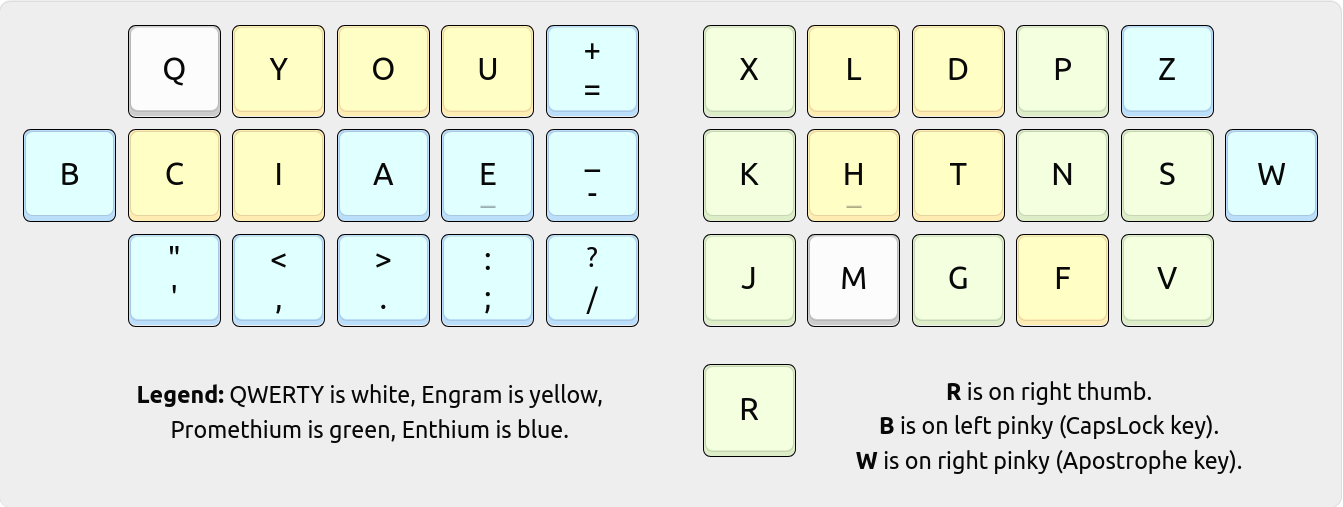
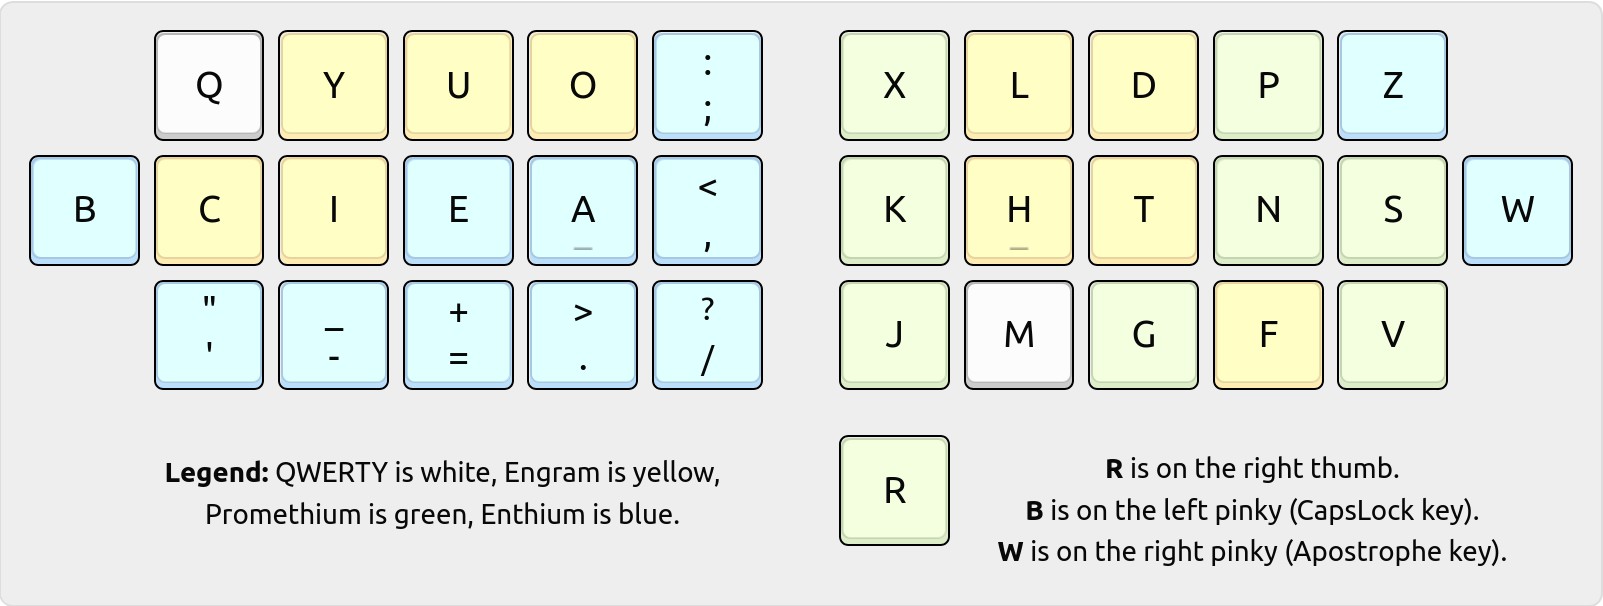
Enthium v15a candidate (YUO/CIEA/-=)

diff --git a/README.md b/README.md
@@ -1,146 +1,166 @@
-# Enthium v14 - Engrammer meets Promethium
+# Enthium v15 - Engrammer meets Promethium
 
-*Enthium* is a highly performant adaptation of the [Engrammer] and [Hands Down
-Promethium] keyboard layouts.  It restores familiarity with [Arno's Engram 2.0]
-layout (YOU on the left hand) and the [Dvorak] layout (HTNS on the right hand)
-while optimizing punctuation placement for programming in the spirit of Engrammer,
-featuring HJKL and `,;` for Vim, `-=` for zooming, and `./` for filesystem paths.
+*Enthium* is a highly performant thumb-letter keyboard layout adapted from
+[Promethium] in the spirit of [Engrammer].  It commemorates [Engram 2.0] and
+[Dvorak] with CIEA and HTNS on the home row, respectively, while optimizing
+punctuation and symbol placement for programming and application shortcuts,
+including HJKL for Vim navigation, `-=` for zooming, and `./` for file paths.
 
 ![Heatmap of this layout by Valorance, adapted from Oxeylyzer.](heatmap.png)
 
-      q y o u = x l d p z
-    b c i a e - k h t n s w
-      ' , . ; / j m g f v
+      q y u o ; x l d p z
+    b c i e a , k h t n s w
+      ' - = . / j m g f v
                 r
 
-[Hands Down Promethium]: https://reddit.com/r/KeyboardLayouts/comments/1g66ivi
-[Arno's Engram 2.0]:     https://github.com/binarybottle/engram-2021
-[Engrammer]:             https://github.com/sunaku/engrammer
-[Dvorak]:                https://www.dvzine.org
+[Promethium]: https://reddit.com/r/KeyboardLayouts/comments/1g66ivi
+[Engram 2.0]: https://github.com/binarybottle/engram-2021
+[Engrammer]:  https://github.com/sunaku/engrammer
+[Dvorak]:     https://www.dvzine.org
+
+<!-- vim-markdown-toc GFM -->
+
+* [Rationale](#rationale)
+    * [Typing comfort and flow](#typing-comfort-and-flow)
+    * [Shortcuts and punctuation](#shortcuts-and-punctuation)
+* [Performance](#performance)
+* [Arrangement](#arrangement)
+    * [Row-staggered keyboards](#row-staggered-keyboards)
+    * [Split/columnar keyboards](#splitcolumnar-keyboards)
+* [Installation](#installation)
+    * [Kanata setup](#kanata-setup)
+    * [Linux setup](#linux-setup)
+    * [macOS setup](#macos-setup)
+* [License](#license)
+
+<!-- vim-markdown-toc -->
 
 ## Rationale
 
+Enthium balances layout analyzer metrics (pinky and same-finger use, lateral
+stretches, redirects, rolls, etc.) with findings from my extensive real-world
+evaluation and feedback from early adopters in the Glove80 keyboard community.
+See [my blog post] for a closer look at Enthium's design process and evolution.
+
+### Typing comfort and flow
+
 * Pinky load is stratified by frequency: heavy letters B (1.44%) and W (1.77%)
-  are close to home position on the lateral pinky keys (CapsLock, Apostrophe);
-  medium letters `'` (0.47%) and V (1.09%) occupy the lower row pinky keys; and
-  light letters Q (0.10%) and Z (0.09%) sit on the upper row.  This distribution
-  helps reduce strain for short pinky fingers or those [weakened by convention].
+  rest near the home position on the lateral pinky keys (CapsLock, Apostrophe);
+  apostrophe `'` (0.47%) and letter V (1.09%) sit on the lower row pinky keys;
+  and light letters Q (0.10%) and Z (0.09%) rise to the upper row.  This helps
+  reduce strain for pinky fingers that are short or [weakened by convention].
+
+* Apostrophe sits on a separate finger from vowels to avoid same-finger bigrams
+  when typing English contractions such as ma'am, we'd, I'm, o'clock, you're.
+
+* Cross-hand symmetry (EA and TH roll inward, whereas OU and LD roll outward)
+  provides consistent directionality through the vowel and consonant clusters,
+  while E on the middle finger supports continuity through vowel-heavy words.
 
 * Vertical same-finger bigrams such as UE (0.08%), OA (0.05%), and NF (0.04%)
-  can be _raked down_, mitigating their impact on typing flow and performance.
+  can be _raked down_, which can help reduce interruptions to your typing flow.
   Similarly, horizontal ones can be _slid over_ based on dexterity and comfort.
+  For example, the word "queue" can be typed as a Q tap followed by raking UE
+  down twice with the middle finger, whereas the word "milk" can be typed as M
+  and I taps followed by sliding LK down and across with the index finger.
 
-* Apostrophe is on a different finger from vowels to avoid same-finger bigrams
-  when typing contractions in English: You'd, I'd, He'd, They'd, Quo's, Via's.
+* QU is an inward roll that flows seamlessly into common vowel sequences:
+  QUO keeps rolling inward, QUI/QUA roll downward, and QUE rakes downward.
 
-* B/E/W, I/A, K/J, Ctrl-P/N, T/F, and `,;` are directionally coherent for Vim.
+### Shortcuts and punctuation
 
-* Ctrl-B/I/U shortcuts for bold/italic/underline are all on the same hand.
+* Ctrl-B/I/U shortcuts for bold, italic, and underline are always within
+  comfortable reach for one-handed use from the left hand's home position.
 
-* `-` and `=` are clustered for intuitive zoom-in/out shortcuts with Ctrl.
+* `-` and `=` are clustered for intuitive zoom out/in shortcuts with Ctrl.
+  They are also positioned to the left of `>` for typing `->` and `=>`.
 
-* `.` and `/` are in-rollable for relative `./` and `../` filesystem paths.
+* `.` and `/` are clustered for relative file paths such as `./` and `../`.
 
-* `,.;/` are in the same relative sequence as QWERTY for easier adaptation,
-  especially for navigation and custom shortcuts that rely on shifted `<>`.
+* `,` is stacked above `.` on conventional row-staggered keyboards, allowing
+  `<>` to be typed by raking down while simultaneously holding the Shift key.
 
-* `',.` are on the same fingers and hand (only the row changes) as Dvorak.
+* `;` and `,` are stacked for cycling through f/F/t/T jump targets in Vim,
+  mirroring the relative ordering of L and H for horizontal cursor movement.
 
-* See [my blog post] for a closer look at Enthium's design and evolution.
+* B/E/W, I/A, K/J, Ctrl-P/N, and T/F physically align with Vim directions.
 
 [my blog post]:           https://sunaku.github.io/enthium-keyboard-layout.html
 [weakened by convention]: https://reddit.com/r/KeyboardLayouts/comments/1fy8nve/_/lqulnww/
 
 ## Performance
 
-The [keyboard layout community][rKL] commonly recommends [Pascal Getreuer's
-guide][PGr] and ranking tables as a starting point for layout exploration,
-and Enthium ranks among the top-performing layouts there as of 2025-12-28.
-More importantly, Enthium is well-balanced in terms of ergonomic concerns
-(same-finger avoidance, redirects, rolls, and pinky load) for sustained use.
+The [keyboard layouts community][rKL] often recommends [Pascal Getreuer's
+guide][PGr] and comparison tables as a starting point for choosing a layout,
+and Enthium stands among the top-performing layouts there as of 2026-08-16:
 
-Comparing with [conventional layout rankings][PGl]:
+| Metric                      | 📉 SFBs _(c)_ | 📉 LSBs _(d)_ | 📉 Scissors | 📈 Rolls _(e)_ | 📉 Redirects | 📉 Pinky use _(f)_ |
+| --------------------------- | ------------- | ------------- | ----------- | -------------- | ------------ | ------------------ |
+| **Enthium v15 score**       | 0.49%         | 0.18%         | 0.08%       | 45.26%         | 2.05%        | 14.44%             |
+| **Thumb-letter rank** _(a)_ | 2nd 🥈        | 2nd 🥈        | 1st 🥇      | 8th            | 5th          | 4th                |
+| **Conventional rank** _(b)_ | 1st 🥇        | 1st 🥇        | 1st 🥇      | 16th           | 8th          | 4th                |
 
-* 0.55% SFBs — second 🥈 place; only surpassed by Focal
-* 2.67% SFSs — first 🥇 place; beats the entire table!
-* 0.07% LSBs — first 🥇 place; beats the entire table!
-* 1.48% redirects — second 🥈 place; after HandsDownNeu
-* 0.16% scissors — sixth place; after Dvorak, Anymak:END, APTv3, MTGAP, Colemak-DH
-* 45.82% rolls — beats Semimak, Engram, HandsDownNeu, Anymak:END, Halmak, Dvorak
-* 2.91% pinky off — beats Canary, Gallium, APTv3, Semimak, MTGAP, Dvorak, Recurva, etc.
+* For each metric: 📉 indicates *lower is better*, whereas 📈 indicates *higher is better*.
+* _(a)_ Compared to other [thumb-letter layouts][PGt], excluding past versions of Enthium.
+* _(b)_ Compared to non-thumb [conventional layouts][PGl], such as QWERTY and Dvorak.
+* _(c)_ SFBs are *same-finger bigrams*, such as the sequence ED in the QWERTY layout.
+* _(d)_ LSBs are *lateral-stretch bigrams*, such as the sequence ET in the QWERTY layout.
+* _(e)_ Rolls sum the four roll in/out metrics listed under Trigrams in the table below.
+* _(f)_ Pinky use is [Pascal Getreuer's own metric][PGl], as published in his comparison tables.
 
-Comparing with [thumb-letter layout rankings][PGt]:
+These performance scores were [computed using Cyanophage's Layout Analyzer][cEM]:
 
-* 0.55% SFBs — second 🥈 place; only surpassed by Night
-* 2.67% SFSs — second 🥈 place; only surpassed by Night
-* 0.07% LSBs — second 🥈 place; only surpassed by Caster
-* 1.48% redirects — third 🥉 place; after Nordrassil, Vibranium
-* 0.16% scissors — fourth place; after RSTHD, Promethium, Maltron
-* 45.82% rolls — sixth place; beats Promethium, Nordrassil
-* 2.91% pinky off — third 🥉 place; after RSTHD, Nordrassil
+[![Enthium's performance per Cyanophage's Layout Analyzer](cyanophage.png)][cEM]
 
-Several same-finger bigrams (SFBs) in Enthium can be _raked down_ vertically
-across adjacent rows or _slid over_ horizontally, based on your dexterity and
-comfort.  This allows the same finger to actuate both keys in one continuous
-motion, thereby mitigating their impact on your typing flow and performance:
+| Category | Metric _(g)_           | [Enthium v15][cEM] | [Promethium][cPM] | [Engrammer][cEG] | [Dvorak][cDV] | [Colemak-DH][cCD] | [QWERTY][cQW] |
+| -------- | ---------------------- | ------------------ | ----------------- | ---------------- | ------------- | ----------------- | ------------- |
+| Summary  | 📉 Total Word Effort   | **723.4**          | 732.1             | 899.5            | 1185.5        | 1047.9            | 2070.6        |
+| Summary  | 📉 Effort              | 447.66             | **398.09**        | 457.41           | 769.69        | 534.99            | 1258.15       |
+| Bigrams  | 📉 Same finger bigrams | **0.49%**          | 0.58%             | 0.99%            | 1.87%         | 0.91%             | 4.38%         |
+| Bigrams  | 📉 Skip Bigrams (2u)   | **0.33%**          | 0.36%             | 0.39%            | 0.45%         | 0.49%             | 1.43%         |
+| Bigrams  | 📉 Skip Bigrams (SFS)  | **2.73%**          | 3.05%             | 3.47%            | 3.48%         | 4.24%             | 5.45%         |
+| Bigrams  | 📉 Lat stretch bigrams | **0.18%**          | 0.24%             | 0.41%            | 0.80%         | 1.27%             | 4.55%         |
+| Bigrams  | 📉 Scissors            | **0.08%**          | 0.11%             | 0.36%            | **0.08%**     | 0.15%             | 1.46%         |
+| Trigrams | 📈 Alternation         | 37.98%             | 36.98%            | 35.62%           | **39.08%**    | 25.43%            | 21.38%        |
+| Trigrams | 📉 Alternation (SFS)   | **4.57%**          | 5.27%             | 5.93%            | 5.85%         | 5.47%             | 5.42%         |
+| Trigrams | 📈 Rolls (sum)         | 45.26%             | 45.74%            | 44.28%           | 39.20%        | **49.20%**        | 40.76%        |
+| Trigrams | 📈 Roll in             | 0.90%              | 1.72%             | **1.82%**        | 0.28%         | 1.50%             | 1.32%         |
+| Trigrams | 📈 Roll out            | 0.37%              | 0.29%             | 0.29%            | 0.27%         | 0.98%             | **1.48%**     |
+| Trigrams | 📈 Bigram roll in      | 27.67%             | **29.17%**        | 28.14%           | 23.51%        | 25.18%            | 20.38%        |
+| Trigrams | 📈 Bigram roll out     | 16.32%             | 14.56%            | 14.03%           | 15.14%        | **21.54%**        | 17.58%        |
+| Trigrams | 📉 Redirects           | 2.05%              | **1.53%**         | 2.26%            | 1.55%         | 5.33%             | 6.22%         |
+| Trigrams | 📉 Weak redirects      | 0.92%              | 0.87%             | 0.74%            | 0.64%         | 1.09%             | **0.44%**     |
+| Trigrams | 📉 Other               | **9.23%**          | 9.61%             | 11.17%           | 13.68%        | 13.49%            | 25.78%        |
+| Getreuer | 📉 Pinky use           | 14.44%             | 14.41%            | 16.86%           | 19.32%        | 16.58%            | **11.04%**    |
 
-> 0.55% SFBs - 0.26% rakeable - 0.07% slideable = **0.22% _effective_ SFBs**
+* _(g)_ **Bold** indicates the best value within each row, among the layouts being compared here in this table.
 
-| SFB  | Cost  | Mitigation |
-| ---  | ----  | ---------- |
-| `ue` | 0.08% | rake down  |
-| `oa` | 0.05% | rake down  |
-| `nf` | 0.04% | rake down  |
-| `ws` | 0.03% | slide in   |
-| `yi` | 0.03% | rake down  |
-| `e-` | 0.02% | slide out  |
-| `sw` | 0.02% | slide out  |
-| `a.` | 0.02% | rake down  |
-| `lk` | 0.02% | rake down  |
-| `e/` | 0.01% | rake down  |
-| `hm` | 0.01% | rake down  |
+[rKL]: https://www.reddit.com/r/KeyboardLayouts/
+[PGr]: https://getreuer.info/posts/keyboards/alt-layouts/
+[PGl]: https://getreuer.info/posts/keyboards/alt-layouts/#table
+[PGt]: https://getreuer.info/posts/keyboards/alt-layouts/#layouts-with-thumb-keys
 
-These results were [computed with Cyanophage's Layout Analyzer][cNM] as follows.
-
-[![Statistics for Enthium from Cyanophage's Layout Analyzer](cyanophage.png)][cNM]
-
-[cNM]: https://cyanophage.github.io/playground.html?layout=qyou%3Dxldpz%5Cciae-khtnsw%27%2C.%3B%2Fjmgfv*rb&mode=ergo&lan=english&thumb=r
+[cEM]: https://cyanophage.github.io/playground.html?layout=qyuo%3Bxldpz%5Cciea%2Ckhtnsw%27-%3D.%2Fjmgfv*rb&mode=ergo&lan=english&thumb=r
 [cPM]: https://cyanophage.github.io/playground.html?layout=fpdlx%3Buoybzsnthk%2Caeicqvwgmj-.%27%3D%2F%5Cr&mode=ergo&lan=english&thumb=l
-[cNG]: https://cyanophage.github.io/playground.html?layout=byou%27%3Bldwvzciea%2C.htsnqgxjk-%2Frmfp%5C%5E&mode=ergo&lan=english&thumb=l
+[cEG]: https://cyanophage.github.io/playground.html?layout=byou%27%3Bldwvzciea%2C.htsnqgxjk-%2Frmfp%5C%5E&mode=ergo&lan=english&thumb=l
 [cDV]: https://cyanophage.github.io/playground.html?layout=%27%2C.pyfgcrl%2Faoeuidhtns-%3Bqjkxbmwvz%5C%5E&mode=ergo&lan=english&thumb=l
 [cCD]: https://cyanophage.github.io/playground.html?layout=qwfpbjluy%3B-arstgmneio%27zxcdvkh%2C.%2F%5C%5E&mode=ergo&lan=english&thumb=l
 [cQW]: https://cyanophage.github.io/playground.html?layout=qwertyuiop-asdfghjkl%3B%27zxcvbnm%2C.%2F%5C%5E&mode=ergo&lan=english&thumb=l
 
-| Category | Statistic              | [Enthium][cNM] | [Promethium][cPM] | [Engrammer][cNG] | [Dvorak][cDV] | [Colemak-DH][cCD] | [QWERTY][cQW] |
-| -------- | ---------------------- | -------------- | ----------------- | ---------------- | ------------- | ----------------- | ------------- |
-| Summary  | Total Word Effort 📉   | 724.5          | 732.1             | 899.5            | 1185.5        | 1047.9            | 2070.6        |
-| Summary  | Effort 📉              | 415.46         | 398.09            | 457.41           | 769.69        | 534.99            | 1258.15       |
-| Bigrams  | Same Finger Bigrams 📉 | 0.55%          | 0.58%             | 0.99%            | 1.87%         | 0.91%             | 4.38%         |
-| Bigrams  | Skip Bigrams (2u) 📉   | 0.33%          | 0.36%             | 0.39%            | 0.45%         | 0.49%             | 1.43%         |
-| Bigrams  | Skip Bigrams (SFS) 📉  | 2.67%          | 3.05%             | 3.47%            | 3.48%         | 4.24%             | 5.45%         |
-| Bigrams  | Lat Stretch Bigrams 📉 | 0.07%          | 0.24%             | 0.41%            | 0.80%         | 1.27%             | 4.55%         |
-| Bigrams  | Scissors 📉            | 0.16%          | 0.11%             | 0.36%            | 0.08%         | 0.15%             | 1.46%         |
-| Trigrams | Alt 📈                 | 38.09%         | 36.98%            | 35.62%           | 39.08%        | 25.43%            | 21.38%        |
-| Trigrams | Alt SFS 📉             | 4.46%          | 5.27%             | 5.93%            | 5.85%         | 5.47%             | 5.42%         |
-| Trigrams | Roll in 📈             | 1.55%          | 1.72%             | 1.82%            | 0.28%         | 1.50%             | 1.32%         |
-| Trigrams | Roll out 📈            | 0.40%          | 0.29%             | 0.29%            | 0.27%         | 0.98%             | 1.48%         |
-| Trigrams | Bigram roll in 📈      | 26.99%         | 29.17%            | 28.14%           | 23.51%        | 25.18%            | 20.38%        |
-| Trigrams | Bigram roll out 📈     | 16.88%         | 14.56%            | 14.03%           | 15.14%        | 21.54%            | 17.58%        |
-| Trigrams | Redirect 📉            | 1.48%          | 1.53%             | 2.26%            | 1.55%         | 5.33%             | 6.22%         |
-| Trigrams | Weak redirect 📉       | 0.79%          | 0.87%             | 0.74%            | 0.64%         | 1.09%             | 0.44%         |
-| Trigrams | Other 📉               | 9.36%          | 9.61%             | 11.17%           | 13.68%        | 13.49%            | 25.78%        |
-| Computed | Pinky off 📉           | 2.91%          | 4.08%             | 5.70%            | 4.13%         | 0.78%             | 2.47%         |
+## Arrangement
 
-[rKL]: https://www.reddit.com/r/KeyboardLayouts/
-[PGr]: https://getreuer.info/posts/keyboards/alt-layouts/
-[PGl]: https://getreuer.info/posts/keyboards/alt-layouts/#which-alt-keyboard-layout-should-i-learn
-[PGt]: https://getreuer.info/posts/keyboards/alt-layouts/#layouts-with-thumb-keys
+* Letter R is placed on a right thumb key at the thumb's resting position.
+* Letter B is placed on a left pinky key immediately to the left of letter C.
+* Letter W is placed on a right pinky key immediately to the right of letter S.
 
-## Implementation
-
-![Concept of this layout on a split, ortho-linear keyboard.](layout.png)
+![Concept of this layout on a split, ortholinear keyboard.](layout.png)
 
 ### Row-staggered keyboards
+
+* Letter R is placed on the key immediately to the right of Spacebar.
+* Letter B is placed on the key immediately to the left of letter C.
+* AltGr is placed on the key immediately to the right of digit 0.
+* Ctrl is placed on the key immediately to the left of Backspace.
 
 ![Rendering of this layout on a row-staggered keyboard.](laptop.png)
 
@@ -154,6 +174,8 @@ See my [Glorious Engrammer] keymap:
 [Glorious Engrammer]: https://github.com/sunaku/glove80-keymaps
 
 ## Installation
+
+Run each block of commands from this repository's root directory.
 
 ### Kanata setup
 
@@ -196,7 +218,7 @@ Uninstall:
     sudo make uninstall
     echo Now restart your graphical session.
 
-### MacOS setup
+### macOS setup
 
 Install:
 
